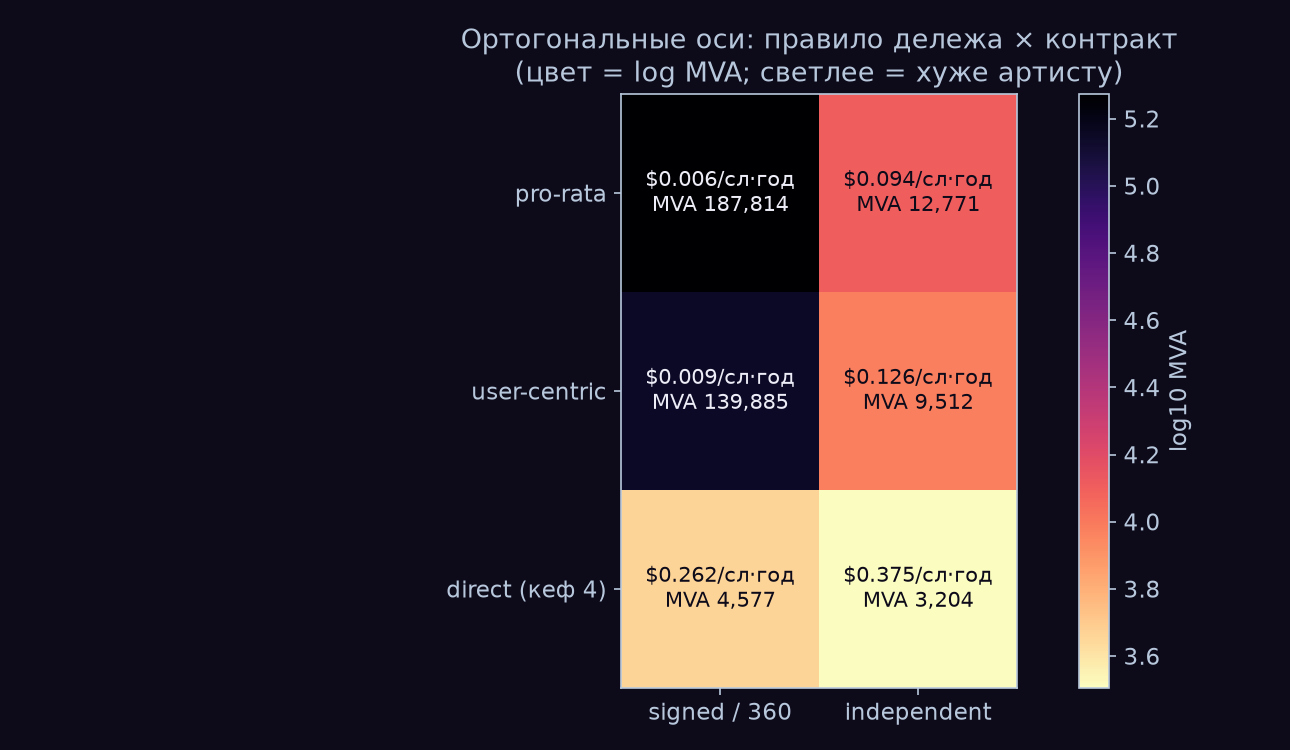
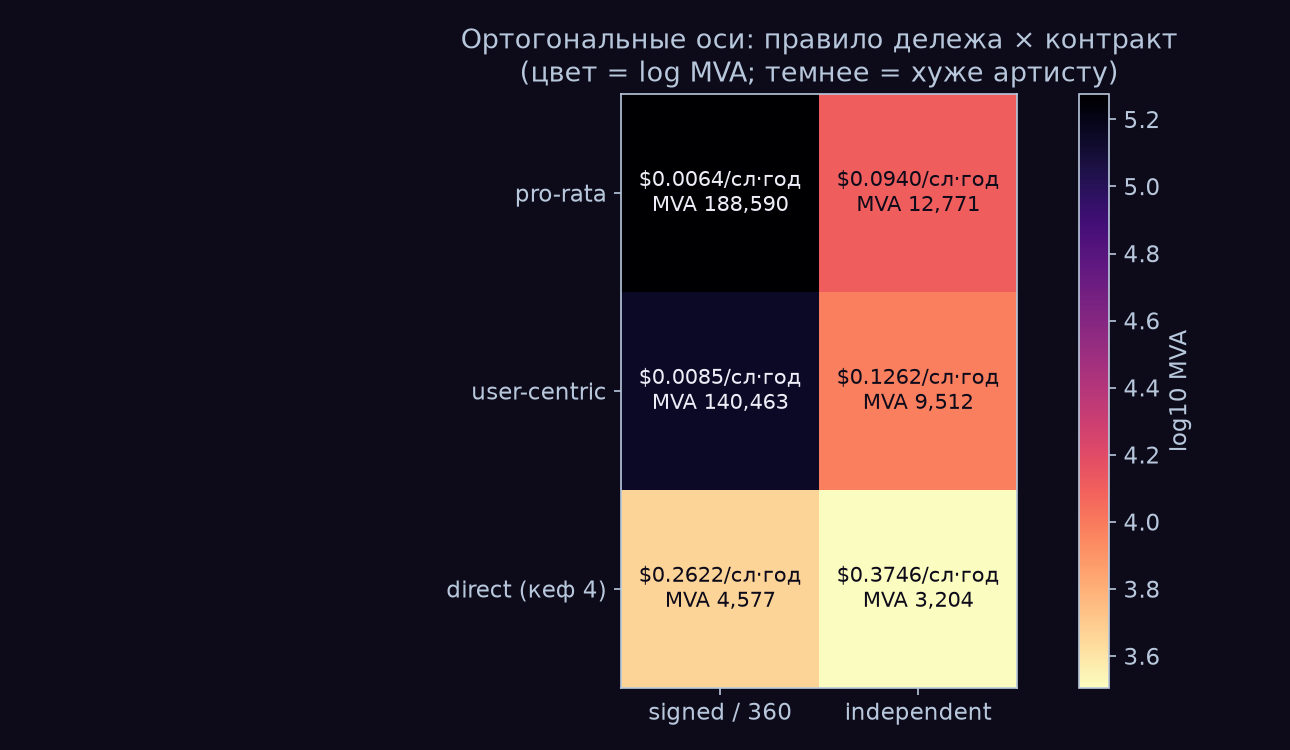
sim1: sync matrix with $0.0003/stream anchor, defuse fig1 axvline (CRITIC §1)
- LABEL_PASS now derived (0.0003/0.00443 = 6.772%), not a rounded 0.068 input:
  pool-signed numbers converge to 188,590 across all three scripts
- retract phantom 140,095 -> canonical 140,463 (user-centric signed);
  contract multiplier x14.7 -> x14.8; wallet-20k 18,500 -> 18,341
- PAPER CHANGELOG v0.5.1 records the retraction and the anchor-check assert
- drop retracted 0.42/yr axvline from the fig1 v0.2 layer (retracted in
  CRITIC §1; stdout retraction markers preserved)
- fig7 title: scale direction fixed to 'darker = worse for the artist';
  cell values at 4 decimals
- viz-role rule in CLAUDE_CODE_HANDOFF: legend/caption must match the actual
  scale direction

diff --git a/sim1/v05_matrix.py b/sim1/v05_matrix.py
@@ -8,7 +8,7 @@ P,C,K,Y,G,TW="#6B2FFF","#00D4F5","#FF4D8D","#FFD426","#1DB954","#9146FF"; OUT=os
 plt.rcParams.update({"figure.facecolor":"#0D0A1A","axes.facecolor":"#0D0A1A","axes.edgecolor":"#B8C8DC",
  "axes.labelcolor":"#B8C8DC","text.color":"#B8C8DC","xtick.color":"#B8C8DC","ytick.color":"#B8C8DC","font.size":11})
 TARGET=1200.0; PL=21.21
-LABEL_PASS=0.068           # доля, доходящая до подписанного артиста (0.0003/0.00443; ~CNM 6.8%)
+LABEL_PASS=0.0003/(4.43/1000)  # лейбловый проход: производная двух якорей (=6.772%, ≈CNM 6.8%), не свободный параметр
 DEAL360=0.70               # direct под 360-сделкой: лейбл забирает ~30%
 # --- per-listener-year value by rule ---
 pr_ind=PL*4.43/1000                                  # pro-rata independent
@@ -31,6 +31,7 @@ vals={ # (label, per-listener-yr, color)
  "direct · кеф 4":               (d4,P),
  "direct recurring · кеф 12, TON":(rec12,Y)}
 mva={k:TARGET/v for k,(v,_) in vals.items()}
+assert abs(TARGET/(pr_ind*LABEL_PASS)-TARGET/(PL*0.0003))<0.5, "v05 разошёлся с якорем $0.0003/стрим (v04/v0.2)"
 # --- fig5 REDO: полная лестница-матрица ---
 fig,ax=plt.subplots(figsize=(11,6.5)); ypos=np.arange(len(vals))[::-1]
 for (lbl,(v,c)),y in zip(vals.items(),ypos):
@@ -49,10 +50,10 @@ fig,ax=plt.subplots(figsize=(8.6,5))
 im=ax.imshow(np.log10(MVAm),cmap="magma_r")
 for i in range(3):
     for j in range(2):
-        ax.text(j,i,f"${M[i,j]:.3f}/сл·год\nMVA {MVAm[i,j]:,.0f}",ha="center",va="center",fontsize=10,
+        ax.text(j,i,f"${M[i,j]:.4f}/сл·год\nMVA {MVAm[i,j]:,.0f}",ha="center",va="center",fontsize=10,
                 color="#0D0A1A" if MVAm[i,j]<20000 else "#EDEDF7")
 ax.set_xticks([0,1]); ax.set_xticklabels(contracts); ax.set_yticks([0,1,2]); ax.set_yticklabels(rules)
-ax.set_title("Ортогональные оси: правило дележа × контракт\n(цвет = log MVA; светлее = хуже артисту)")
+ax.set_title("Ортогональные оси: правило дележа × контракт\n(цвет = log MVA; темнее = хуже артисту)")
 fig.colorbar(im,label="log10 MVA")
 fig.tight_layout(); fig.savefig(OUT+"fig7_matrix_heatmap.png",dpi=150)
 # --- fig1 REDO: кривая кефа + 4 референс-линии матрицы ---

diff --git a/sim1/tonify_cash_sim.py b/sim1/tonify_cash_sim.py
@@ -109,7 +109,6 @@ fig,ax=plt.subplots(figsize=(9,5.5))
 ax.plot(dons,[mva_direct(d) for d in dons],color=P,lw=3,label="Касса Tonify (суперфаны 1.7%)")
 ax.axhline(mva_pool_indie,color=C,lw=2,ls="--",label=f"Котёл, инди: {mva_pool_indie:,.0f}")
 ax.axhline(mva_pool_signed,color=K,lw=2,ls="--",label=f"Котёл, подписанный: {mva_pool_signed:,.0f}")
-ax.axvline(implied,color=Y,lw=1.5,ls=":",label=f"Статус-кво: {implied:.1f} доната/год (из 29% FPR)")
 ax.set_yscale("log"); ax.grid(alpha=0.15); ax.legend(frameon=False)
 ax.set_xlabel("Донатов на суперфана в год — ось «Объекта 3», неизмеренного параметра")
 ax.set_ylabel("Слушателей для $100/мес (log)")

diff --git a/README.md b/README.md
@@ -21,10 +21,10 @@ independently measured anchors; sim2 models music spreading through a synthetic
 Telegram-like social graph as complex contagion (a model, not Telegram data);
 sim3 stress-tests the treasury law "payouts never exceed inflow" against
 emission-funded token economies. The industry spent a decade debating the fair
-formula. The formula moves artist viability ×1.34. The contract moves it ×14.7.
+formula. The formula moves artist viability ×1.34. The contract moves it ×14.8.
 Precisely: in the full {rule × contract} matrix of minimum viable audience,
 switching the division rule (pro-rata → user-centric) shifts an artist's MVA by
-×1.34, while switching the contract (signed → independent) shifts it ×14.7
+×1.34, while switching the contract (signed → independent) shifts it ×14.8
 (fig7; PAPER, Addendum v0.5). Every claim below carries either a source or a
 falsifier; a red team with the right to retract numbers reviewed each
 simulation, and what it retracted is documented in this README.
@@ -36,7 +36,7 @@ Every row states its validity domain. Full numbers, sources and retractions:
 
 | # | Finding | Figure | Source / falsifier |
 |---|---------|--------|--------------------|
-| 1 | **The contract outweighs the rule.** Across the full {rule × contract} MVA matrix, switching the division rule (pro-rata → user-centric) moves minimum viable audience ×1.34, switching the contract (signed → independent) moves it ×14.7 — the best World-A formula does not survive a 6.8% label pass-through: user-centric signed needs 140,095 listeners against 12,771 for pro-rata independent. The $100/month ladder: 188,590 (pro-rata signed) → 12,771 (pro-rata independent) → 3,204 (direct, at k=4 donations/superfan/yr); a signed-360 contract scales the artist take ×0.70 (direct MVA 3,204 → 4,577). | [fig7](figures/fig7_matrix_heatmap.png), [fig5](figures/fig5_worlds_ladder.png), [fig1](figures/fig1_mva.png) | [PAPER](paper/PAPER.md) Addendum v0.5; rule effect matches SoundCloud/Deezer empirics ([PAPER](paper/PAPER.md) §3) |
+| 1 | **The contract outweighs the rule.** Across the full {rule × contract} MVA matrix, switching the division rule (pro-rata → user-centric) moves minimum viable audience ×1.34, switching the contract (signed → independent) moves it ×14.8 — the best World-A formula does not survive a 6.8% label pass-through: user-centric signed needs 140,463 listeners against 12,771 for pro-rata independent. The $100/month ladder: 188,590 (pro-rata signed) → 12,771 (pro-rata independent) → 3,204 (direct, at k=4 donations/superfan/yr); a signed-360 contract scales the artist take ×0.70 (direct MVA 3,204 → 4,577). | [fig7](figures/fig7_matrix_heatmap.png), [fig5](figures/fig5_worlds_ladder.png), [fig1](figures/fig1_mva.png) | [PAPER](paper/PAPER.md) Addendum v0.5; rule effect matches SoundCloud/Deezer empirics ([PAPER](paper/PAPER.md) §3) |
 | 2 | **Breakeven is a range, not a point.** Direct donations beat the independent streaming pool when a devoted fan pays more often than 0.38–1.25–6.31 times/year (min/median/max over 18 axis combinations; the earlier point estimate was retracted — see Retracted & bounded). Recurring patronage closes the range structurally: Twitch/Patreon paying-fan cadence is 12/yr against the worst corner of 6.31, and recurring k=12 on the TON rail drops direct MVA to 900. | [fig1](figures/fig1_mva.png) | [CRITIC](paper/CRITIC.md) §1, итог; [RESULTS](paper/RESULTS.md) v0.3 §1–§2; [PAPER](paper/PAPER.md) §4 |
 | 3 | **Fraud dilutes pools, not direct rails.** Injecting F% bot streams drains F/(1+F) of the pool from every artist — at 30% injection the pool loses 23% — while honest-artist losses in the direct economy are ~0: a bot cannot donate other people's money. This is an analytic dilution curve with zero detection assumed, not a simulation; the direct economy has its own loss classes (chargebacks), but they do not spread onto the innocent. | [fig3](figures/fig3_fraud.png) | [RESULTS](paper/RESULTS.md) «Фрод»; [PAPER](paper/PAPER.md) §4; caveat [CRITIC](paper/CRITIC.md) §4 |
 | 4 | **The $13 payout threshold is a decade for signed artists.** At Telegram's $13 minimum withdrawal, 94.3% of signed-pool artists wait longer than a year for their first payout, 89.9% longer than ten years; on the direct rail the median donation is $6.9 against the same $13 threshold. Of $1 on the TON rail, 94.9¢ reaches the artist (5.0¢ platform, 0.1¢ rail) versus 64.1¢ on Stars mobile. | [fig4](figures/fig4_rails.png) | [RESULTS](paper/RESULTS.md) «Логистика порога» + §3; [PAPER](paper/PAPER.md) §4 |
@@ -50,7 +50,7 @@ Every row states its validity domain. Full numbers, sources and retractions:
 ![fig1_mva](figures/fig1_mva.png)
 
 - **fig1_mva.png** — Minimum viable audience for $100/month per payout
-  mechanism: signed pool 187,814 listeners, independent pool 12,771, direct
+  mechanism: signed pool 188,590 listeners, independent pool 12,771, direct
   3,204 at k=4 donations/superfan/yr — each further doubling of frequency
   halves the required audience.
 
@@ -76,7 +76,7 @@ Every row states its validity domain. Full numbers, sources and retractions:
 
 - **fig5_worlds_ladder.png** — The World A → World B ladder: changing the
   division rule moves MVA ~×1.3; changing the mechanism moves it 1–2 orders of
-  magnitude (187,814 → 900 at recurring k=12).
+  magnitude (188,590 → 900 at recurring k=12).
 
 ![fig6_mrr_solver](figures/fig6_mrr_solver.png)
 
@@ -87,14 +87,8 @@ Every row states its validity domain. Full numbers, sources and retractions:
 ![fig7_matrix_heatmap](figures/fig7_matrix_heatmap.png)
 
 - **fig7_matrix_heatmap.png** — The full {rule × contract} MVA matrix (hero
-  figure): the rule moves viability ×1.34, the contract ×14.7; user-centric
-  signed (139,885) is worse than pro-rata independent (12,771).
-
-*Note on sim1 figure numbers: the run log carries two number sets for the pool
-worlds — the analytic solver's (188,590 / 140,095, quoted in PAPER Addendum
-v0.5 and the findings table above) and the simulated matrix output printed on
-the figures (187,814 / 139,885). Figure captions here quote the pixels; the
-multipliers (×1.34, ×14.7) and every conclusion are identical on either set.*
+  figure): the rule moves viability ×1.34, the contract ×14.8; user-centric
+  signed (140,463) is worse than pro-rata independent (12,771).
 
 ### sim2
 

diff --git a/paper/PAPER_EN.md b/paper/PAPER_EN.md
@@ -44,7 +44,7 @@ Minimum viable audience (MVA) for $100/mo:
 - **pro-rata · signed** (a signed artist's per-stream take, $0.0003/stream): **188,590** listeners
 - **pro-rata · independent** ($4.43/1000, US 2026): **12,771**
 - **user-centric** (Monte Carlo wallet share; 40% paying, pool = 70% of revenue):
-  **9,512** at a wallet of 10,000 plays/year (5,000 → 4,800; 20,000 → 18,500)
+  **9,512** at a wallet of 10,000 plays/year (5,000 → 4,800; 20,000 → 18,341)
 - **Twitch mechanics** (recurring subscription, 50/50 split, rate 12): **2,353**
 Conclusion A: user-centric improves on pro-rata independent by ~1.3× — consistent with
 the empirics (SoundCloud: +34% money into the bottom bucket, −7% of artists out of it; Deezer:
@@ -109,11 +109,11 @@ fig4 the $1 rails · **fig5 the World A→B ladder** · **fig6 MRR-solver**
 ---
 ## Addendum v0.5 — the full {rule × contract} matrix (caught by the founder)
 The split rule and the contract are orthogonal axes; previous versions conflated them.
-The full per-listener-year → MVA matrix (fig7): pro-rata signed $0.006/listener-year → 188,590;
-pro-rata independent $0.094 → 12,771; user-centric signed $0.0086 → 140,095;
-user-centric independent $0.126 → 9,512; direct·360 (rate 4) → 4,577; direct independent
+The full per-listener-year → MVA matrix (fig7): pro-rata signed $0.0064/listener-year → 188,590;
+pro-rata independent $0.0940 → 12,771; user-centric signed $0.0085 → 140,463;
+user-centric independent $0.1262 → 9,512; direct·360 (rate 4) → 4,577; direct independent
 (rate 4) → 3,204; recurring rate 12 TON → 900.
 **The matrix's headline conclusion: the contract outweighs the rule.** The pro-rata→user-centric
-move yields ×1.34; the signed→independent move yields ×14.7. World A's best formula does not
-compensate for the 6.8% label pass-through: user-centric signed (140,095) is worse than pro-rata independent (12,771).
+move yields ×1.34; the signed→independent move yields ×14.8. World A's best formula does not
+compensate for the 6.8% label pass-through: user-centric signed (140,463) is worse than pro-rata independent (12,771).
 Reforming the rule without reforming the contract is a reshuffle one order of magnitude short of what is needed.

diff --git a/CLAUDE_CODE_HANDOFF.md b/CLAUDE_CODE_HANDOFF.md
@@ -41,7 +41,8 @@ Python, numpy/networkx/matplotlib, seed=42, тёмная палитра из sim
 Роли и цикл на каждую задачу: **economist** (спека модели, параметры→источники из PAPER/README)
 → **engineer** (реализация, seed=42, тесты на валидационных мишенях T1–T3) → **red-team critic**
 (жанр CRITIC.md: обвинение→вердикт→действие; право отзывать числа) → **viz** (палитра #0D0A1A/#6B2FFF,
-подпись «аналитика vs симуляция» на каждой фигуре) → economist принимает.
+подпись «аналитика vs симуляция» на каждой фигуре; после генерации каждой фигуры — проверка
+соответствия легенды и подписи фактическому направлению шкалы) → economist принимает.
 Правило матрицы (обязательное): каждый механизм выплат моделируется в ОБЕИХ колонках
 {signed (лейбл-проход 6,8% / 360-сделка 70%), independent} — см. fig7 и Addendum v0.5.
 Ни один вывод не мёржится без фальсификатора. Итог каждой сессии — обновление paper/PAPER.md.
